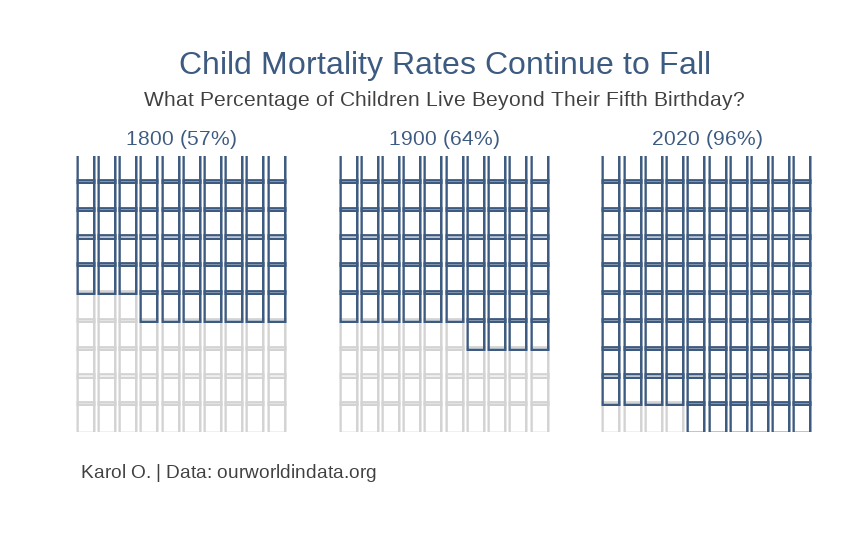
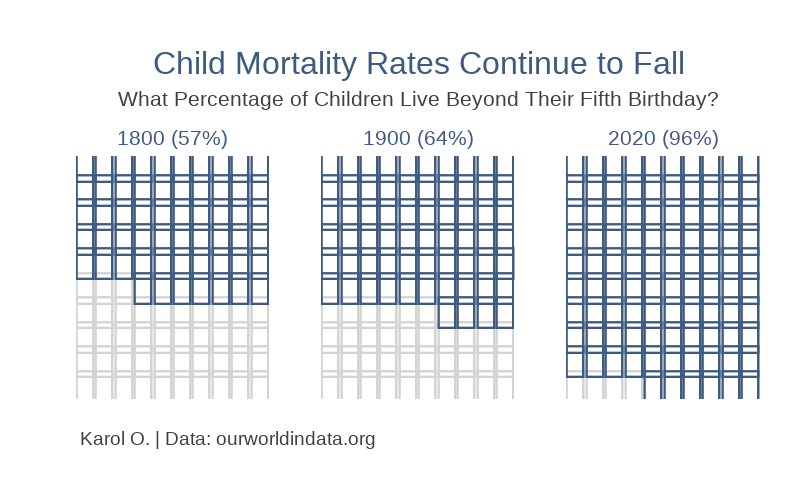
ew

diff --git a/docs/projects/mortality/mortality.html b/docs/projects/mortality/mortality.html
@@ -177,12 +177,12 @@ code span.wa { color: #60a0b0; font-weight: bold; font-style: italic; } /* Warni
 <!-- content -->
 <header id="title-block-header" class="quarto-title-block default page-columns page-full">
   <div class="quarto-title-banner page-columns page-full">
-    <div class="quarto-title column-page">
+    <div class="quarto-title column-page-left">
       <h1 class="title">What Percentage of Children Live Beyond Their Fifth Birthday?</h1>
                                 <div class="quarto-categories">
                 <div class="quarto-category">R</div>
-                <div class="quarto-category">Unsupervised Learning</div>
-                <div class="quarto-category">Cluster Analysis</div>
+                <div class="quarto-category">Data Viz</div>
+                <div class="quarto-category">Data For Good</div>
               </div>
                   </div>
   </div>
@@ -211,15 +211,22 @@ code span.wa { color: #60a0b0; font-weight: bold; font-style: italic; } /* Warni
   </header><div id="quarto-content" class="quarto-container page-columns page-rows-contents page-layout-full page-navbar">
 <!-- sidebar -->
 <!-- margin-sidebar -->
-    <div id="quarto-margin-sidebar" class="sidebar margin-sidebar zindex-bottom">
-        
+    <div id="quarto-margin-sidebar" class="sidebar margin-sidebar">
+        <nav id="TOC" role="doc-toc" class="toc-active">
+    <h2 id="toc-title">On this page</h2>
+   
+  <ul>
+  <li><a href="#data-wrangling" id="toc-data-wrangling" class="nav-link active" data-scroll-target="#data-wrangling">Data Wrangling</a></li>
+  </ul>
+</nav>
     </div>
 <!-- main -->
-<main class="content quarto-banner-title-block column-page" id="quarto-document-content">
+<main class="content quarto-banner-title-block column-page-left" id="quarto-document-content">
 
 
 
 
+<p><img src="child_mortality.png" class="img-fluid"></p>
 <p>The rate of child mortality is at its lowest point ever. From 12.5 million in 1990 to 5.2 million in 2019, child mortality has more than halved in less than three decades. It is essential to recognize this significant accomplishment.</p>
 <p>Nations committed to achieving Sustainable Development Goals (SDGs). By 2030, all countries must achieve at least a 2.5% child mortality rate. This would imply that regardless of where a baby is born, more than 97.5% survive the first five years of their existence. Currently, 3.9% of children worldwide die before turning five, equating to an average of 15,000 deaths per day.</p>
 <section id="load-the-required-packages-and-dataset" class="level4">
@@ -230,6 +237,9 @@ code span.wa { color: #60a0b0; font-weight: bold; font-style: italic; } /* Warni
 <span id="cb1-3"><a href="#cb1-3" aria-hidden="true" tabindex="-1"></a><span class="fu">library</span>(usefunc)</span>
 <span id="cb1-4"><a href="#cb1-4" aria-hidden="true" tabindex="-1"></a><span class="fu">library</span>(showtext)</span></code><button title="Copy to Clipboard" class="code-copy-button"><i class="bi"></i></button></pre></div>
 </div>
+</section>
+<section id="data-wrangling" class="level3">
+<h3 class="anchored" data-anchor-id="data-wrangling">Data Wrangling</h3>
 <div class="cell">
 <div class="sourceCode cell-code" id="cb2"><pre class="sourceCode r code-with-copy"><code class="sourceCode r"><span id="cb2-1"><a href="#cb2-1" aria-hidden="true" tabindex="-1"></a><span class="co"># Load fonts</span></span>
 <span id="cb2-2"><a href="#cb2-2" aria-hidden="true" tabindex="-1"></a><span class="fu">font_add_google</span>(<span class="st">"Roboto Slab"</span>, <span class="st">"slab"</span>)</span>
@@ -289,13 +299,7 @@ code span.wa { color: #60a0b0; font-weight: bold; font-style: italic; } /* Warni
 <span id="cb2-56"><a href="#cb2-56" aria-hidden="true" tabindex="-1"></a>  <span class="fu">guides</span>(<span class="at">colour =</span> <span class="fu">guide_legend</span>(<span class="at">override.aes =</span> <span class="fu">list</span>(<span class="at">size =</span> <span class="dv">6</span>)))</span>
 <span id="cb2-57"><a href="#cb2-57" aria-hidden="true" tabindex="-1"></a></span>
 <span id="cb2-58"><a href="#cb2-58" aria-hidden="true" tabindex="-1"></a><span class="co"># Adjust figure size and save as PNG</span></span>
-<span id="cb2-59"><a href="#cb2-59" aria-hidden="true" tabindex="-1"></a><span class="fu">ggsave</span>(<span class="st">"child_mortality.png"</span>, p, <span class="at">width =</span> <span class="dv">10</span>, <span class="at">height =</span> <span class="dv">6</span>, <span class="at">dpi =</span> <span class="dv">300</span>)</span>
-<span id="cb2-60"><a href="#cb2-60" aria-hidden="true" tabindex="-1"></a></span>
-<span id="cb2-61"><a href="#cb2-61" aria-hidden="true" tabindex="-1"></a></span>
-<span id="cb2-62"><a href="#cb2-62" aria-hidden="true" tabindex="-1"></a>p</span></code><button title="Copy to Clipboard" class="code-copy-button"><i class="bi"></i></button></pre></div>
-<div class="cell-output-display">
-<p><img src="mortality_files/figure-html/unnamed-chunk-2-1.png" class="img-fluid" width="672"></p>
-</div>
+<span id="cb2-59"><a href="#cb2-59" aria-hidden="true" tabindex="-1"></a><span class="fu">ggsave</span>(<span class="st">"child_mortality.png"</span>, p, <span class="at">width =</span> <span class="dv">10</span>, <span class="at">height =</span> <span class="dv">6</span>, <span class="at">dpi =</span> <span class="dv">300</span>)</span></code><button title="Copy to Clipboard" class="code-copy-button"><i class="bi"></i></button></pre></div>
 </div>
 
 

diff --git a/docs/portfolio.html b/docs/portfolio.html
@@ -161,7 +161,7 @@ ul.task-list li input[type="checkbox"] {
 <!-- margin-sidebar -->
     <div id="quarto-margin-sidebar" class="sidebar margin-sidebar">
         
-    <h5 class="quarto-listing-category-title">Categories</h5><div class="quarto-listing-category category-unnumbered"><div class="category" data-category="Brand">Brand</div><div class="category" data-category="Cluster Analysis">Cluster Analysis</div><div class="category" data-category="Machine Learning">Machine Learning</div><div class="category" data-category="Prediction">Prediction</div><div class="category" data-category="R">R</div><div class="category" data-category="Sentiment Analysis">Sentiment Analysis</div><div class="category" data-category="Unsupervised Learning">Unsupervised Learning</div></div></div>
+    <h5 class="quarto-listing-category-title">Categories</h5><div class="quarto-listing-category category-unnumbered"><div class="category" data-category="Brand">Brand</div><div class="category" data-category="Cluster Analysis">Cluster Analysis</div><div class="category" data-category="Data For Good">Data For Good</div><div class="category" data-category="Data Viz">Data Viz</div><div class="category" data-category="Machine Learning">Machine Learning</div><div class="category" data-category="Prediction">Prediction</div><div class="category" data-category="R">R</div><div class="category" data-category="Sentiment Analysis">Sentiment Analysis</div><div class="category" data-category="Unsupervised Learning">Unsupervised Learning</div></div></div>
 <!-- main -->
 <main class="content quarto-banner-title-block" id="quarto-document-content">
 
@@ -218,7 +218,7 @@ Orozco Karol M.
 </a>
 </div>
 </div>
-<div class="quarto-post image-right" data-index="1" data-categories="R,Unsupervised Learning,Cluster Analysis" data-listing-date-sort="1688108400000" data-listing-file-modified-sort="1688410205012" data-listing-reading-time-sort="3.41">
+<div class="quarto-post image-right" data-index="1" data-categories="R,Data Viz,Data For Good" data-listing-date-sort="1688108400000" data-listing-file-modified-sort="1688410435521" data-listing-reading-time-sort="3.42">
 <div class="thumbnail">
 <p><a href="./projects/mortality/mortality.html"> <img src="./projects/mortality/child_mortality.png" class="thumnail-image"> </a></p>
 </div>
@@ -235,11 +235,11 @@ What Percentage of Children Live Beyond Their Fifth Birthday?
 <div class="listing-category" onclick="window.quartoListingCategory('R'); return false;">
 R
 </div>
-<div class="listing-category" onclick="window.quartoListingCategory('Unsupervised Learning'); return false;">
-Unsupervised Learning
+<div class="listing-category" onclick="window.quartoListingCategory('Data Viz'); return false;">
+Data Viz
 </div>
-<div class="listing-category" onclick="window.quartoListingCategory('Cluster Analysis'); return false;">
-Cluster Analysis
+<div class="listing-category" onclick="window.quartoListingCategory('Data For Good'); return false;">
+Data For Good
 </div>
 </div>
 <a href="./projects/mortality/mortality.html">
